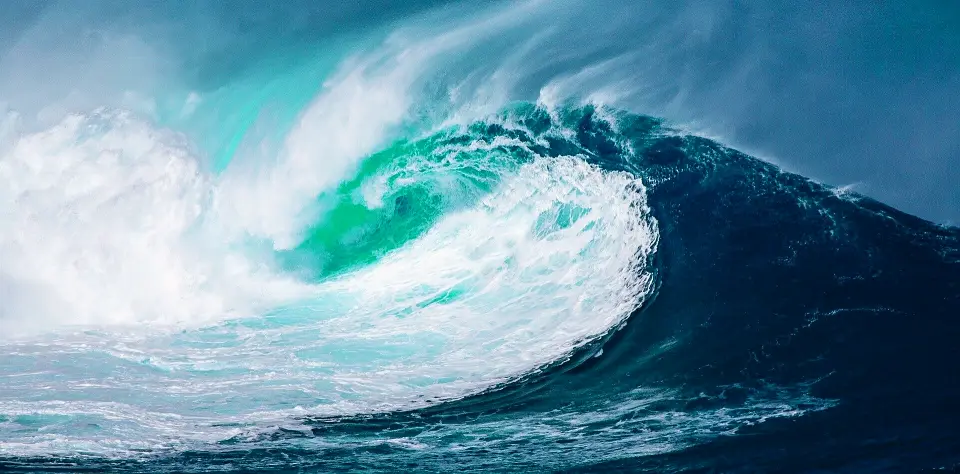
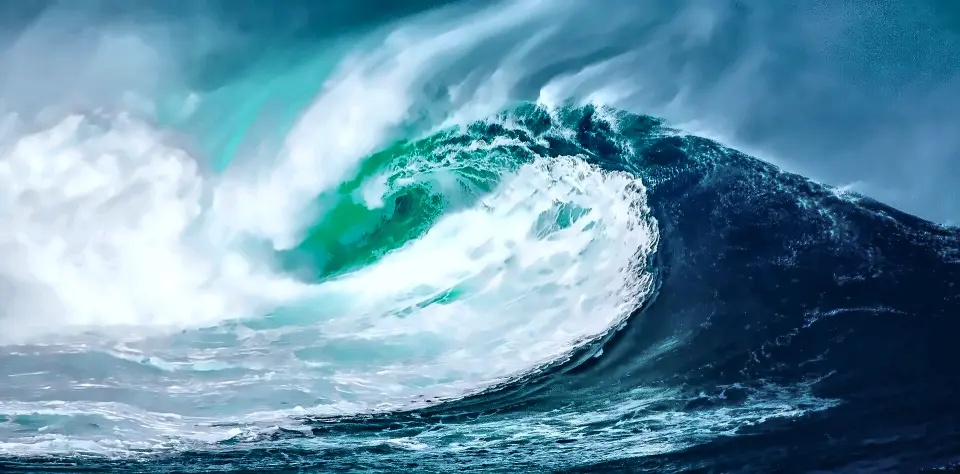
Hero wave: living WebGL water motion + stronger wave image
- WebGL flow-map shader animates the wave photo itself (foam and water drift,
  surface ripples, moving light) in a seamless 3.6s loop; runs only while the
  wave slide is visible, DPR capped at 1.5, falls back to the still photo
  without WebGL or with reduced motion
- Wave image: denoise, local contrast (CLAHE), more saturation and clarity
- Lighter overlay while the wave slide is on so the wave stands out

Claude-Session: https://claude.ai/code/session_01SgKrXrEfS5cA9TiGRy5iNH

diff --git a/index.html b/index.html
@@ -259,6 +259,10 @@ nav.scrolled{background:rgba(10,22,40,0.97);box-shadow:0 2px 30px rgba(0,0,0,0.5
 .hero-slider .hs-slide img{width:100%;height:100%;object-fit:cover;object-position:var(--pd);transform:scale(1.04);will-change:transform}
 .hero-slider .hs-slide.is-on img,.hero-slider .hs-slide.is-out img{animation:hsKB calc(var(--dur) + 1.6s) cubic-bezier(.25,.1,.25,1) forwards}
 @keyframes hsKB{from{transform:scale(1.04) translate(0,0)}to{transform:scale(1.13) translate(var(--kx),var(--ky))}}
+.hs-gl{position:absolute;inset:0;width:100%;height:100%;opacity:0;transition:opacity .8s;transform:scale(1.04)}
+.hs-gl.ready{opacity:1}
+.hero-slider .hs-slide.is-on .hs-gl,.hero-slider .hs-slide.is-out .hs-gl{animation:hsKB calc(var(--dur) + 1.6s) cubic-bezier(.25,.1,.25,1) forwards}
+#home.hs-on0 .hero-overlay{background:radial-gradient(ellipse 55% 50% at 50% 50%,rgba(5,14,28,.5) 0%,rgba(5,14,28,.26) 60%,rgba(5,14,28,.08) 100%),linear-gradient(180deg,rgba(5,14,28,.5) 0%,transparent 20%)}
 .hs-water::after{content:"";position:absolute;inset:-10%;background:radial-gradient(ellipse 30% 22% at 38% 42%,rgba(167,243,208,.35),transparent 70%),radial-gradient(ellipse 22% 16% at 62% 30%,rgba(255,255,255,.18),transparent 70%);mix-blend-mode:screen;animation:hsShimmer 6s ease-in-out infinite alternate;pointer-events:none}
 @keyframes hsShimmer{0%{transform:translate(-3%,1%) scale(1);opacity:.6}100%{transform:translate(3%,-2%) scale(1.08);opacity:1}}
 #home .hero-overlay{background:radial-gradient(ellipse 60% 55% at 50% 50%,rgba(5,14,28,.6) 0%,rgba(5,14,28,.38) 60%,rgba(5,14,28,.2) 100%),linear-gradient(180deg,rgba(5,14,28,.55) 0%,transparent 22%)}
@@ -306,7 +310,7 @@ nav.scrolled{background:rgba(10,22,40,0.97);box-shadow:0 2px 30px rgba(0,0,0,0.5
 #home .hero-content{margin-top:.25rem;padding:0 16px}
 #home .hero-h1,#home .hero-sub,#home .hero-slogan{text-shadow:none}
 }
-@media(prefers-reduced-motion:reduce){.hero-slider .hs-slide img,.hs-water::after,.hs-tab.on .hs-track i{animation:none!important}.hs-tab.on .hs-track i{transform:scaleX(1)}}
+@media(prefers-reduced-motion:reduce){.hs-gl{display:none}.hero-slider .hs-slide img,.hs-water::after,.hs-tab.on .hs-track i{animation:none!important}.hs-tab.on .hs-track i{transform:scaleX(1)}}
 .hero-overlay{position:absolute;inset:0;background:linear-gradient(135deg,rgba(7,18,34,0.72) 0%,rgba(0,30,60,0.45) 50%,rgba(7,18,34,0.88) 100%)}
 .hero-overlay2{position:absolute;bottom:0;left:0;right:0;height:35%;background:linear-gradient(to top,#071222,transparent)}
 .hero-content{position:relative;z-index:2;text-align:center;padding:2rem;max-width:960px}
@@ -1496,9 +1500,9 @@ em .typing-cursor { background: var(--gold); box-shadow: 0 0 10px rgba(212,168,6
 
 <!-- HERO -->
 <main id="main">
-<section id="home">
+<section id="home" class="hs-on0">
   <div class="hero-video-wrap hero-slider" id="heroSlider" role="region" aria-roledescription="carousel" aria-label="Seamens services">
-    <figure class="hs-slide is-on hs-water" data-cap="Water Safe Water Treatment Technologies" data-href="/products/cooling-tower-chiller-ro" style="--pd:40% 50%;--pm:35% 50%;--kx:-2%;--ky:0" aria-roledescription="slide" aria-label="1 of 7: Water Treatment"><img src="images/hero/ocean-wave.webp" srcset="images/hero/ocean-wave-sm.webp 960w, images/hero/ocean-wave.webp 1920w" fetchpriority="high" sizes="100vw" width="1920" height="1080" alt="Powerful curling ocean wave in teal and emerald tones" decoding="async"></figure>
+    <figure class="hs-slide is-on hs-water" data-cap="Water Safe Water Treatment Technologies" data-href="/products/cooling-tower-chiller-ro" style="--pd:40% 50%;--pm:35% 50%;--kx:-2%;--ky:0" aria-roledescription="slide" aria-label="1 of 7: Water Treatment"><img src="images/hero/ocean-wave.webp" srcset="images/hero/ocean-wave-sm.webp 960w, images/hero/ocean-wave.webp 1920w" fetchpriority="high" sizes="100vw" width="1920" height="1080" alt="Powerful curling ocean wave in teal and emerald tones" decoding="async"><canvas class="hs-gl" aria-hidden="true"></canvas></figure>
     <figure class="hs-slide" data-cap="Steam Boiler Supply &amp; Water Treatment" data-href="/products/boiler-water-treatment-humidification" style="--pd:50% 60%;--pm:50% 62%;--kx:0;--ky:-1.5%" aria-roledescription="slide" aria-label="2 of 7: Boilers"><img data-src="images/hero/steam-boilers.webp" data-srcset="images/hero/steam-boilers-sm.webp 960w, images/hero/steam-boilers.webp 1920w" sizes="100vw" width="1920" height="1080" alt="Twin fire-tube steam boilers with burners in a boiler house" decoding="async"></figure>
     <figure class="hs-slide" data-cap="ECO-Series Textile Auxiliaries" data-href="/products/textile-auxiliaries" style="--pd:45% 55%;--pm:30% 55%;--kx:2%;--ky:0" aria-roledescription="slide" aria-label="3 of 7: Textile"><img data-src="images/hero/textile-finishing-range.webp" data-srcset="images/hero/textile-finishing-range-sm.webp 960w, images/hero/textile-finishing-range.webp 1920w" sizes="100vw" width="1920" height="1080" alt="Textile finishing range with fabric batching rolls" decoding="async"></figure>
     <figure class="hs-slide" data-cap="Cooling Tower Water Treatment" data-href="/products/cooling-tower-chiller-ro" style="--pd:50% 40%;--pm:40% 45%;--kx:-1.5%;--ky:1%" aria-roledescription="slide" aria-label="4 of 7: Cooling Towers"><img data-src="images/hero/cooling-tower.webp" data-srcset="images/hero/cooling-tower-sm.webp 960w, images/hero/cooling-tower.webp 1920w" sizes="100vw" width="1920" height="1080" alt="Industrial cooling tower cells on a plant rooftop" decoding="async"></figure>
@@ -2983,7 +2987,7 @@ function load(){if(loaded)return;loaded=true;sl.forEach(function(s){var m=s.quer
 function show(n){if(n===i)return;load();var prev=sl[i];prev.classList.remove('is-on');prev.classList.add('is-out');setTimeout(function(){prev.classList.remove('is-out')},1400);
 tabs[i].classList.remove('on');tabs[i].removeAttribute('aria-current');
 tabs.forEach(function(b,k){b.classList.toggle('done',k<n)});
-i=n;var s=sl[i];s.classList.add('is-on');var im=s.querySelector('img');im.style.animation='none';void im.offsetWidth;im.style.animation='';
+i=n;var s=sl[i];s.classList.add('is-on');document.getElementById('home').classList.toggle('hs-on0',i===0);var im=s.querySelector('img');im.style.animation='none';void im.offsetWidth;im.style.animation='';
 tabs[i].classList.add('on');tabs[i].setAttribute('aria-current','true');var tr=tabs[i].querySelector('.hs-track i');tr.style.animation='none';void tr.offsetWidth;tr.style.animation='';
 cap.classList.add('swap');setTimeout(function(){num.textContent=(i<9?'0':'')+(i+1);txt.innerHTML=s.dataset.cap;cap.href=s.dataset.href;cap.classList.remove('swap')},300);go()}
 function next(){show((i+1)%sl.length)}function prev(){show((i-1+sl.length)%sl.length)}
@@ -2997,6 +3001,45 @@ var x0=null,y0=0;el.addEventListener('touchstart',function(e){x0=e.touches[0].cl
 el.addEventListener('touchend',function(e){if(x0===null)return;var dx=e.changedTouches[0].clientX-x0,dy=e.changedTouches[0].clientY-y0;if(Math.abs(dx)>40&&Math.abs(dx)>Math.abs(dy)){dx<0?next():prev()}x0=null},{passive:true});
 document.addEventListener('visibilitychange',go);
 window.addEventListener('load',function(){load();go()});
+})();
+</script>
+<script>
+/* Living wave: WebGL flow-map animation of the hero wave photo (seamless 3.6s loop) */
+(function(){var fig=document.querySelector('.hs-water');if(!fig)return;var cv=fig.querySelector('.hs-gl'),img=fig.querySelector('img');
+if(window.matchMedia('(prefers-reduced-motion: reduce)').matches)return;
+var gl=cv.getContext('webgl',{premultipliedAlpha:false,antialias:false});if(!gl)return;
+var vs='attribute vec2 p;varying vec2 v;void main(){v=vec2(p.x*.5+.5,.5-p.y*.5);gl_Position=vec4(p,0.,1.);}';
+var fs='precision mediump float;varying vec2 v;uniform sampler2D t;uniform float T;uniform vec2 S,O;'+
+'float h(vec2 p){return fract(sin(dot(p,vec2(127.1,311.7)))*43758.5453);}'+
+'float n(vec2 p){vec2 i=floor(p),f=fract(p);f=f*f*(3.-2.*f);return mix(mix(h(i),h(i+vec2(1,0)),f.x),mix(h(i+vec2(0,1)),h(i+vec2(1,1)),f.x),f.y);}'+
+'void main(){vec2 uv=v*S+O;float P=3.6;'+
+'vec2 fl=vec2(-.030,.010)+.022*vec2(n(uv*4.+3.)-.5,n(uv*4.+9.)-.5);'+
+'float m=.35+.65*smoothstep(.25,.75,uv.y);fl*=m;'+
+'float a=fract(T/P),b=fract(T/P+.5);'+
+'vec2 r=.0018*vec2(sin(uv.y*60.+T*2.4),cos(uv.x*48.+T*2.))*m;'+
+'vec4 c0=texture2D(t,uv+fl*(a-.5)+r),c1=texture2D(t,uv+fl*(b-.5)+r);'+
+'float w=abs(a-.5)*2.;vec4 c=mix(c0,c1,w);'+
+'float g=.05*n(uv*vec2(6.,3.)+vec2(-T*.35,T*.1))*m;'+
+'gl_FragColor=vec4(c.rgb+g,1.);}';
+function sh(type,src){var o=gl.createShader(type);gl.shaderSource(o,src);gl.compileShader(o);return o}
+var pr=gl.createProgram();gl.attachShader(pr,sh(gl.VERTEX_SHADER,vs));gl.attachShader(pr,sh(gl.FRAGMENT_SHADER,fs));gl.linkProgram(pr);
+if(!gl.getProgramParameter(pr,gl.LINK_STATUS))return;gl.useProgram(pr);
+var buf=gl.createBuffer();gl.bindBuffer(gl.ARRAY_BUFFER,buf);gl.bufferData(gl.ARRAY_BUFFER,new Float32Array([-1,-1,1,-1,-1,1,1,1]),gl.STATIC_DRAW);
+var lp=gl.getAttribLocation(pr,'p');gl.enableVertexAttribArray(lp);gl.vertexAttribPointer(lp,2,gl.FLOAT,false,0,0);
+var uT=gl.getUniformLocation(pr,'T'),uS=gl.getUniformLocation(pr,'S'),uO=gl.getUniformLocation(pr,'O');
+var tex=gl.createTexture(),ok=false,raf=0,t0=performance.now();
+function upload(){try{gl.bindTexture(gl.TEXTURE_2D,tex);gl.texParameteri(gl.TEXTURE_2D,gl.TEXTURE_WRAP_S,gl.CLAMP_TO_EDGE);gl.texParameteri(gl.TEXTURE_2D,gl.TEXTURE_WRAP_T,gl.CLAMP_TO_EDGE);gl.texParameteri(gl.TEXTURE_2D,gl.TEXTURE_MIN_FILTER,gl.LINEAR);gl.texParameteri(gl.TEXTURE_2D,gl.TEXTURE_MAG_FILTER,gl.LINEAR);gl.texImage2D(gl.TEXTURE_2D,0,gl.RGB,gl.RGB,gl.UNSIGNED_BYTE,img);ok=true;size()}catch(e){ok=false}}
+function size(){var r=fig.getBoundingClientRect(),d=Math.min(window.devicePixelRatio||1,1.5),W=Math.max(1,Math.round(r.width*d)),H=Math.max(1,Math.round(r.height*d));
+if(cv.width!==W||cv.height!==H){cv.width=W;cv.height=H;gl.viewport(0,0,W,H)}
+var ia=img.naturalWidth/img.naturalHeight,ba=r.width/r.height,pos=getComputedStyle(img).objectPosition.split(' '),px=parseFloat(pos[0])/100,py=parseFloat(pos[1]||'50')/100,sx=1,sy=1;
+if(ba>ia){sy=ia/ba}else{sx=ba/ia}gl.uniform2f(uS,sx,sy);gl.uniform2f(uO,(1-sx)*px,(1-sy)*py)}
+function frame(now){raf=0;if(!ok)return;gl.uniform1f(uT,(now-t0)/1000);gl.drawArrays(gl.TRIANGLE_STRIP,0,4);if(!cv.classList.contains('ready'))cv.classList.add('ready');
+if(!document.hidden&&(fig.classList.contains('is-on')||fig.classList.contains('is-out')))raf=requestAnimationFrame(frame)}
+function kick(){if(!raf&&ok)raf=requestAnimationFrame(frame)}
+new MutationObserver(kick).observe(fig,{attributes:true,attributeFilter:['class']});
+document.addEventListener('visibilitychange',kick);window.addEventListener('resize',function(){if(ok){size();kick()}});
+function start(){upload();kick()}
+if(img.complete&&img.naturalWidth)start();else img.addEventListener('load',start);
 })();
 </script>
 </body>
